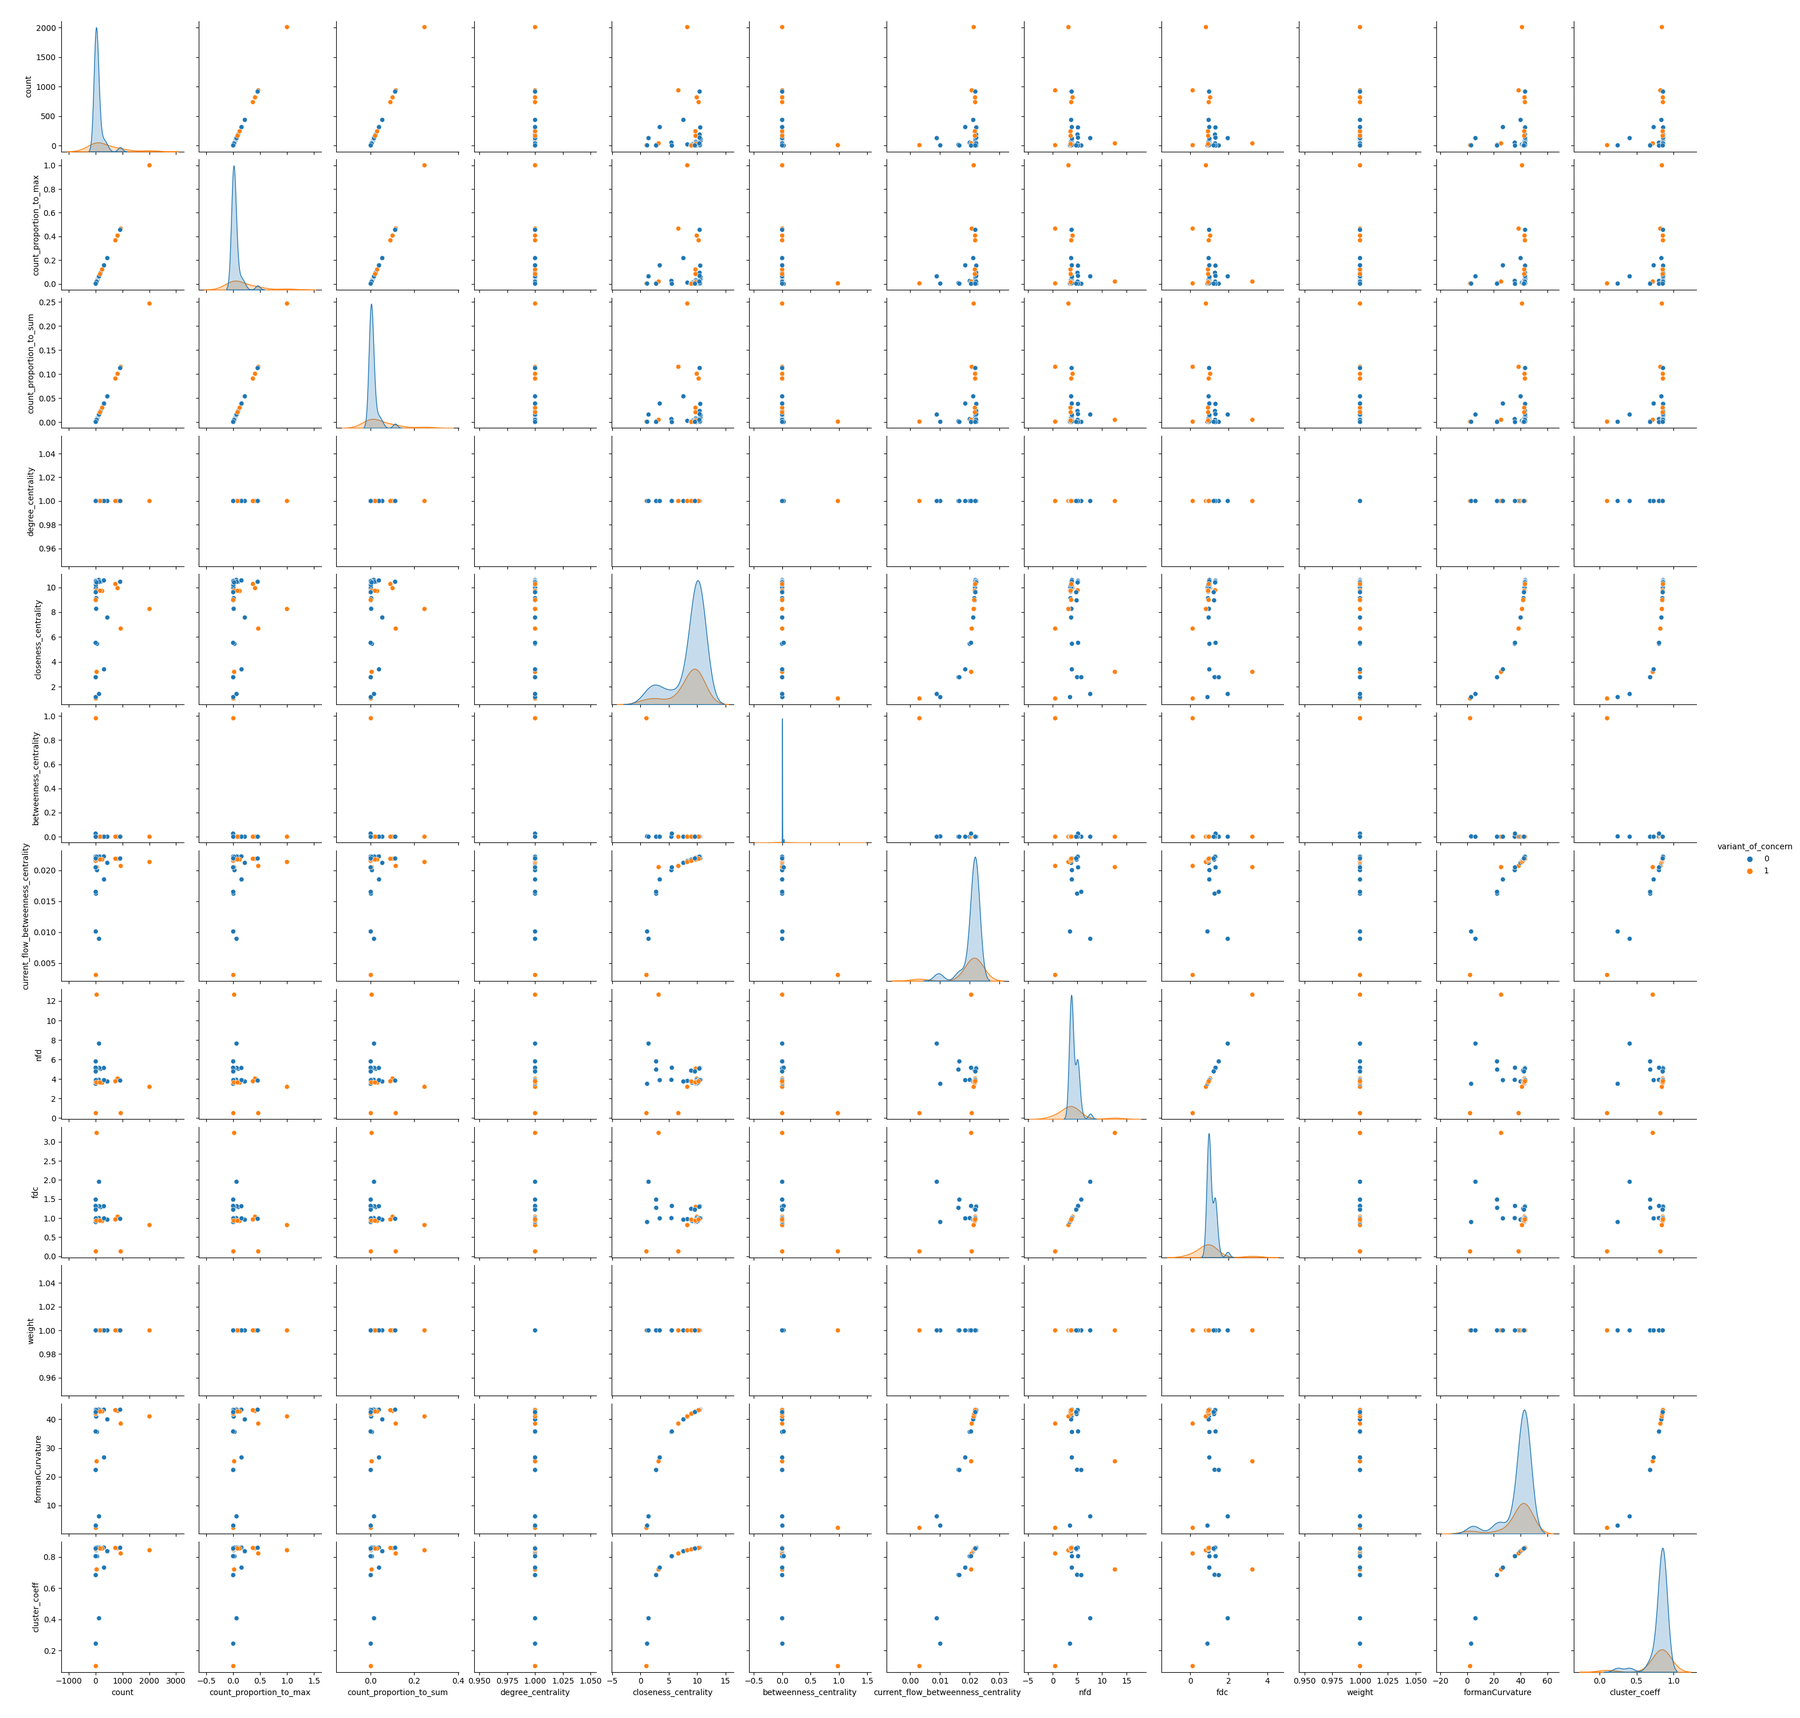
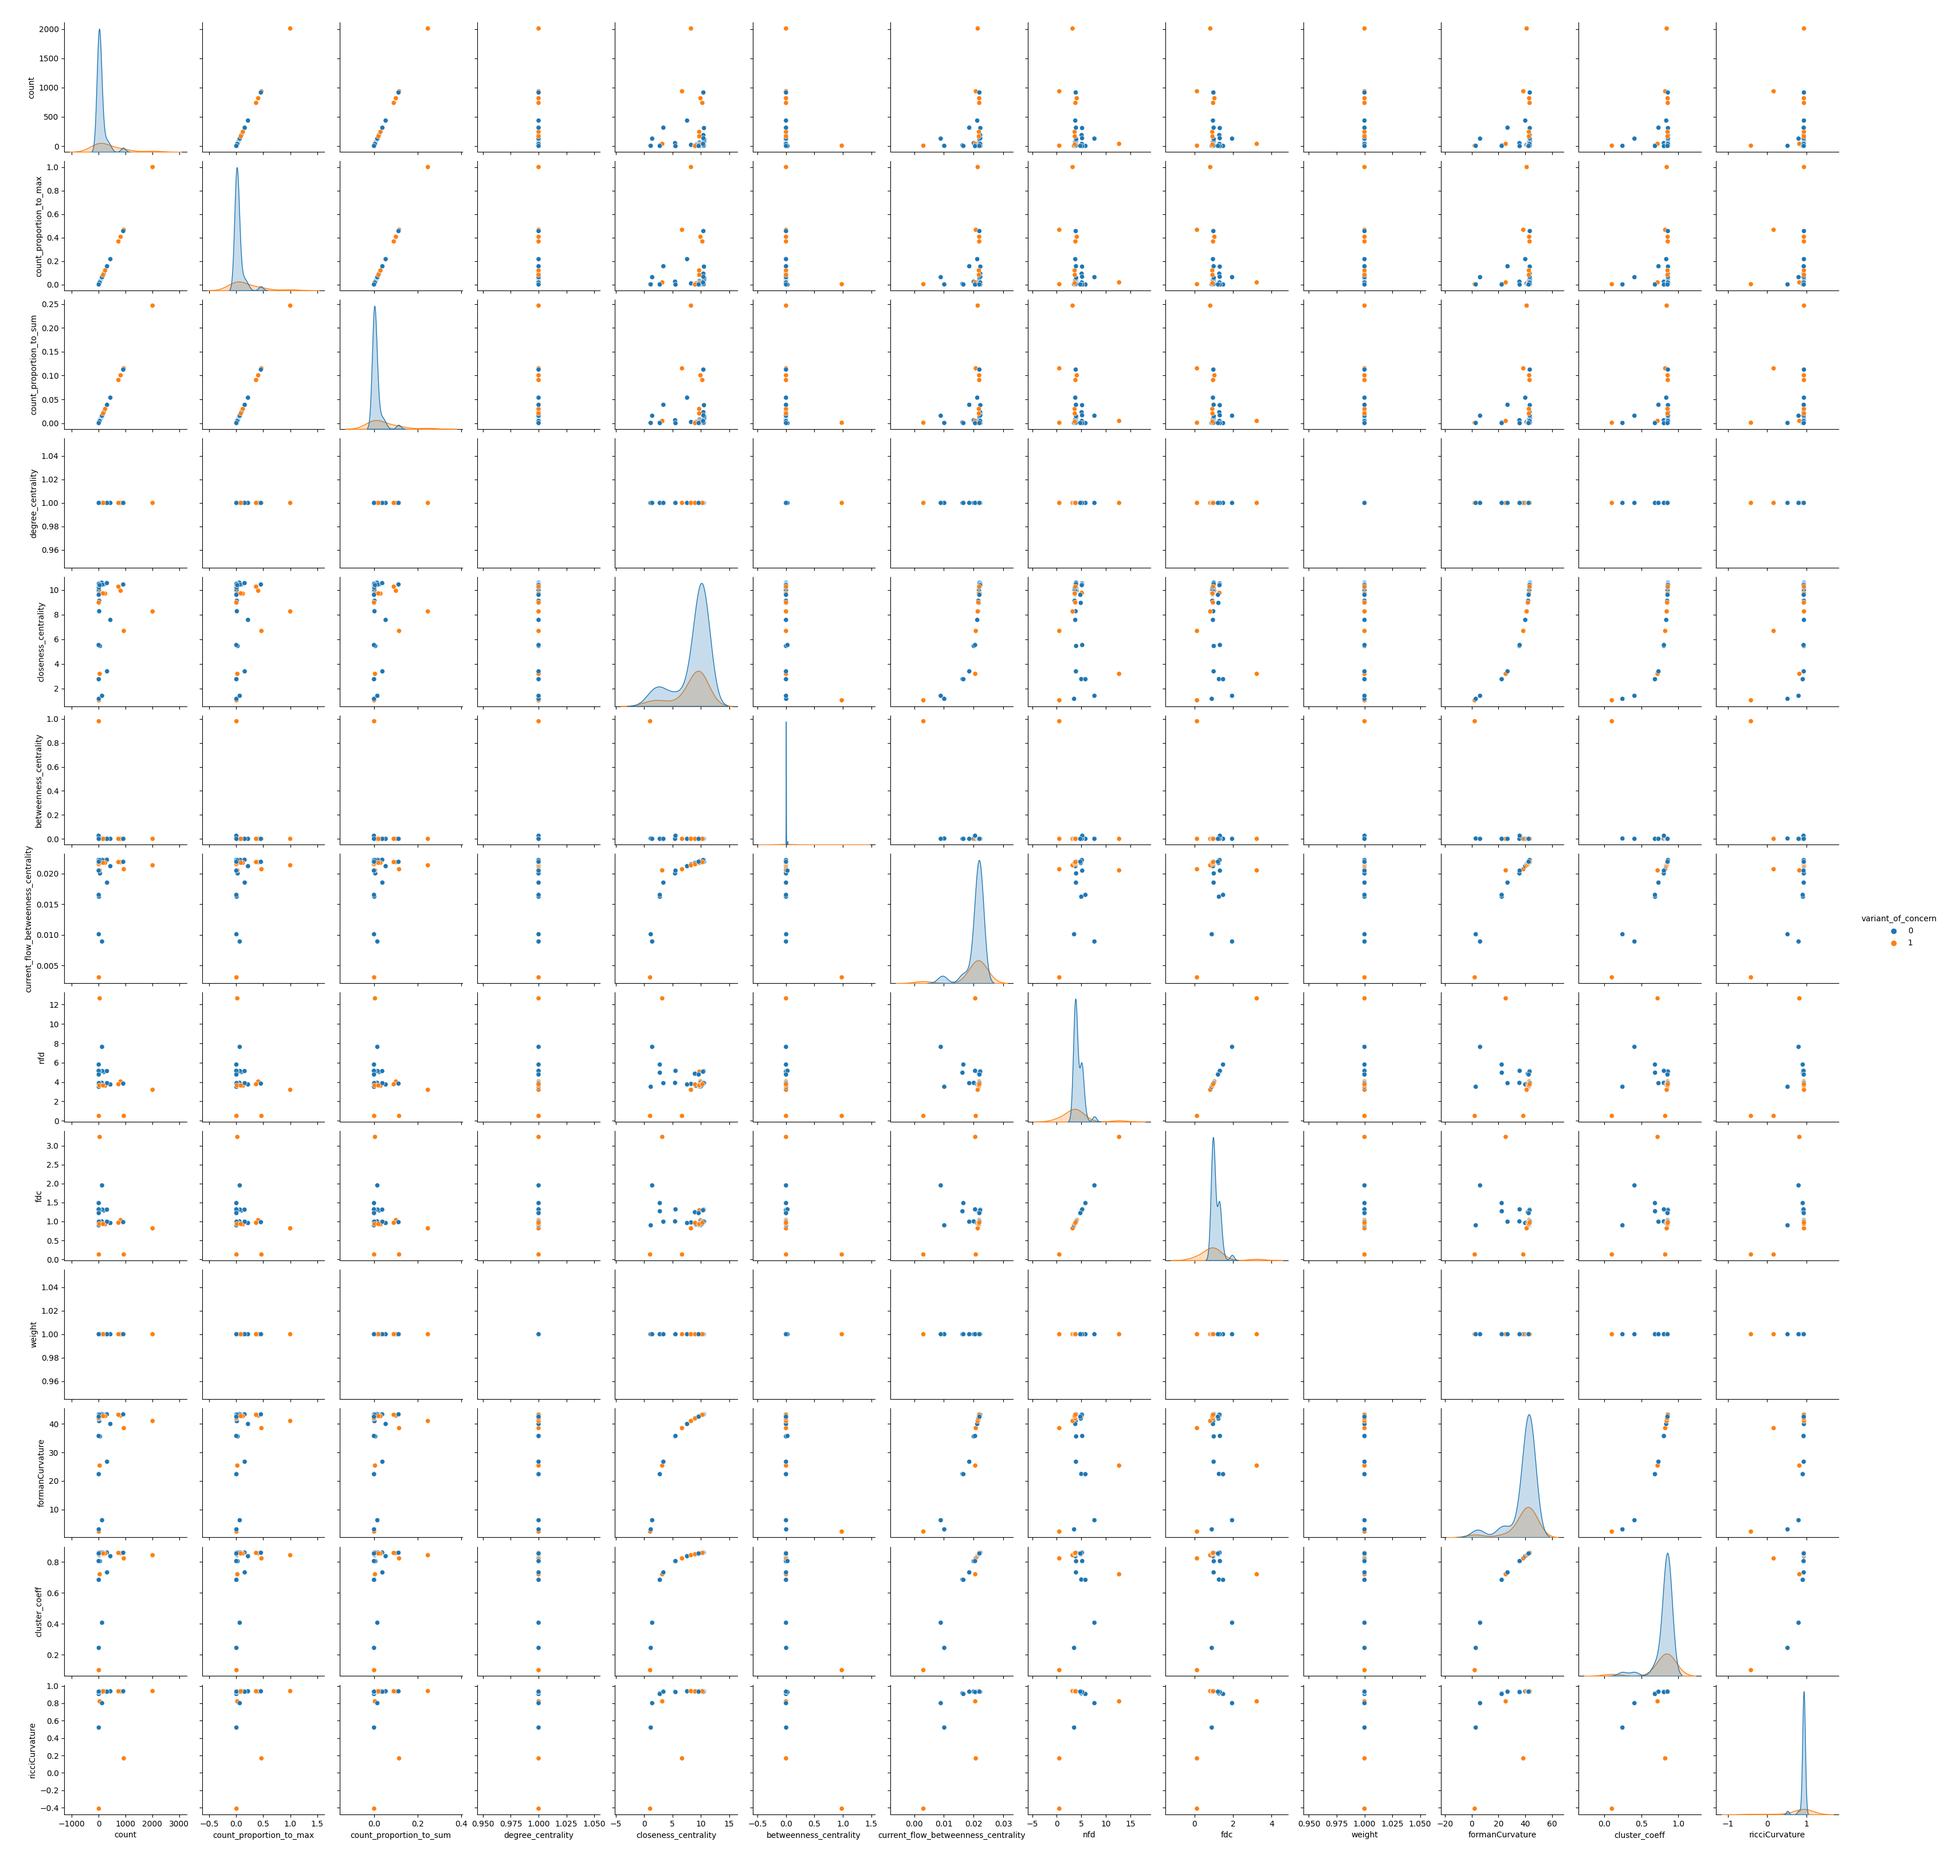
code for community detection

diff --git a/community_detection.py b/community_detection.py
@@ -1,0 +1,33 @@
+import community as community_louvain
+from GraphRicciCurvature.OllivierRicci import OllivierRicci
+
+import networkx as nx
+
+from util import get_all_files_in_dir_as_list, gml_dir
+
+
+def set_louvain_communities(G):
+    partition = community_louvain.best_partition(G)
+    nx.set_node_attributes(G, partition, 'louvain_community')
+    return G
+
+def set_ricci_flow_community(G):
+    orc = OllivierRicci(G, alpha=0.5, verbose="TRACE")
+    orc.compute_ricci_flow(iterations=10)
+    cc = orc.ricci_community()
+    print(cc)
+
+def main():
+    # iterate through all the gml files in the gml_files directory
+    gml_files = get_all_files_in_dir_as_list(gml_dir)
+    for gml_file in gml_files:
+        # load the graph
+        G = nx.read_gml(gml_dir + "/" + gml_file)
+        # set the louvain communities
+        G = set_louvain_communities(G)
+        # set the ricci flow communities
+        set_ricci_flow_community(G)
+        nx.write_gml(G, gml_dir + "/" + gml_file)
+
+if __name__ == "__main__":
+    main()

diff --git a/util_files/plotting_config.py b/util_files/plotting_config.py
@@ -2,7 +2,7 @@
 
 # these are the features we will use for plotting and ML
 features = ['count', 'variant_of_concern', 'variant', 'count_proportion_to_max',
-            'count_proportion_to_sum', 'degree_centrality', 'closeness_centrality',
+            'count_proportion_to_sum', 'degree_centrality', 'closeness_centrality', "ricciCurvature",
             'betweenness_centrality', 'current_flow_betweenness_centrality', 'nfd',
             'fdc', 'formanCurvature', 'cluster_coeff']
 

diff --git a/data_viz.py b/data_viz.py
@@ -23,6 +23,8 @@ def violinplot(df, x_feature=None, y_feature=None, stratifier=None):
     sns.violinplot(x=x_feature, y=y_feature, data=df, hue=stratifier)
     plt.savefig(plotting_config.violinplot_save_dir + x_feature + "_" + y_feature + ".png")
     plt.clf()
+
+
 def main():
     G = nx.read_gml("gml_files/graph_with_voc_normalized_attrs.gml")
     # print a list of feature names for a node

diff --git a/set_attr_util.py b/set_attr_util.py
@@ -11,12 +11,15 @@ from collections import Counter
 import scipy.stats as stats
 import statistics
 import os
-import community as community_louvain
 #TODO orc
 #TODO forman
 #TODO nfd
 #TODO fdc
 #TODO community detection
+
+
+
+
 
 def set_orc(graph, name="orc"):
     """

diff --git a/util.py b/util.py
@@ -4,6 +4,7 @@ import zipfile
 
 util_dir = "util_files"
 graphs_dir = "graphs/"
+gml_dir = "gml_files"
 
 def get_all_files_in_dir_as_list(dir):
     # get all the files in the directory
